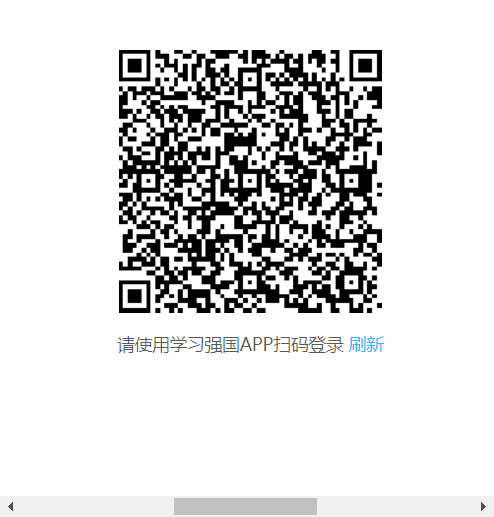
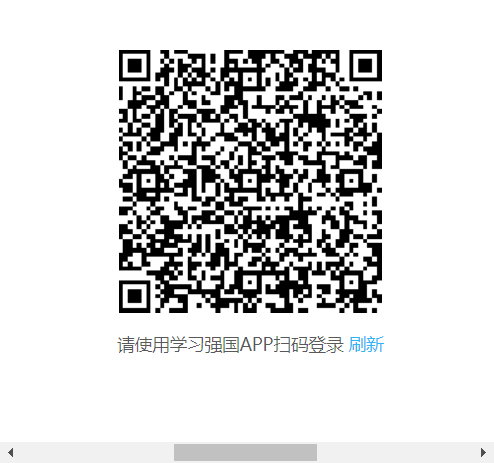
添加MYQR生成动态二维码的方法

Changed region(s): [[0.2429, 0.0907, 0.7895, 0.6955], [0.2429, 0.7257, 0.7895, 0.7862], [0.3644, 0.9374, 0.6377, 0.9676]]

diff --git a/Source Packages/pdlearn/get_qrcode.py b/Source Packages/pdlearn/get_qrcode.py
@@ -11,6 +11,11 @@ import os
 import qrcode
 from PIL import Image
 from pyzbar import pyzbar
+from MyQR import myqr
+
+
+def myself_make_qr_code():
+    myqr.run(words='I Love You ', level='H', picture='dongtu.gif', colorized=True,save_name='qrcode.gif', save_dir=os.getcwd())
 
 
 def make_qr_code(content, save_path=None):
@@ -106,13 +111,15 @@ if __name__ == "__main__":
                 "=dingoankubyrfkttorhpou&redirect_uri=https%3A%2F%2Fpc-api.xuexi.cn%2Fopen%2Fapi%2Fsns%2Fcallback"
     print("正在编码：")
     # ==生成带中心图片的二维码
-    make_qr_code_with_icon(code_Data, "phone.jpg", "qrcode.png")  # 内容，center图片，生成二维码图片
-    make_qr_code(code_Data, "qrcode_one.png")
+    # make_qr_code_with_icon(code_Data, "phone.jpg", "qrcode.png")  # 内容，center图片，生成二维码图片
+    # make_qr_code(code_Data, "qrcode_one.png")
     print("图片已保存，名称为：qrcode.png")
-    results = decode_qr_code("qrcode1.png")
+    # results = decode_qr_code("qrcode1.png")
     print("2、正在解码：")
-    if len(results):
-        print("解码结果是：")
-        print(results[0].data.decode("utf-8"))
-    else:
-        print("Can not recognize.")
+    print("======================================")
+    myself_make_qr_code();
+    # if len(results):
+    #     print("解码结果是：")
+    #     print(results[0].data.decode("utf-8"))
+    # else:
+    #     print("Can not recognize.")
